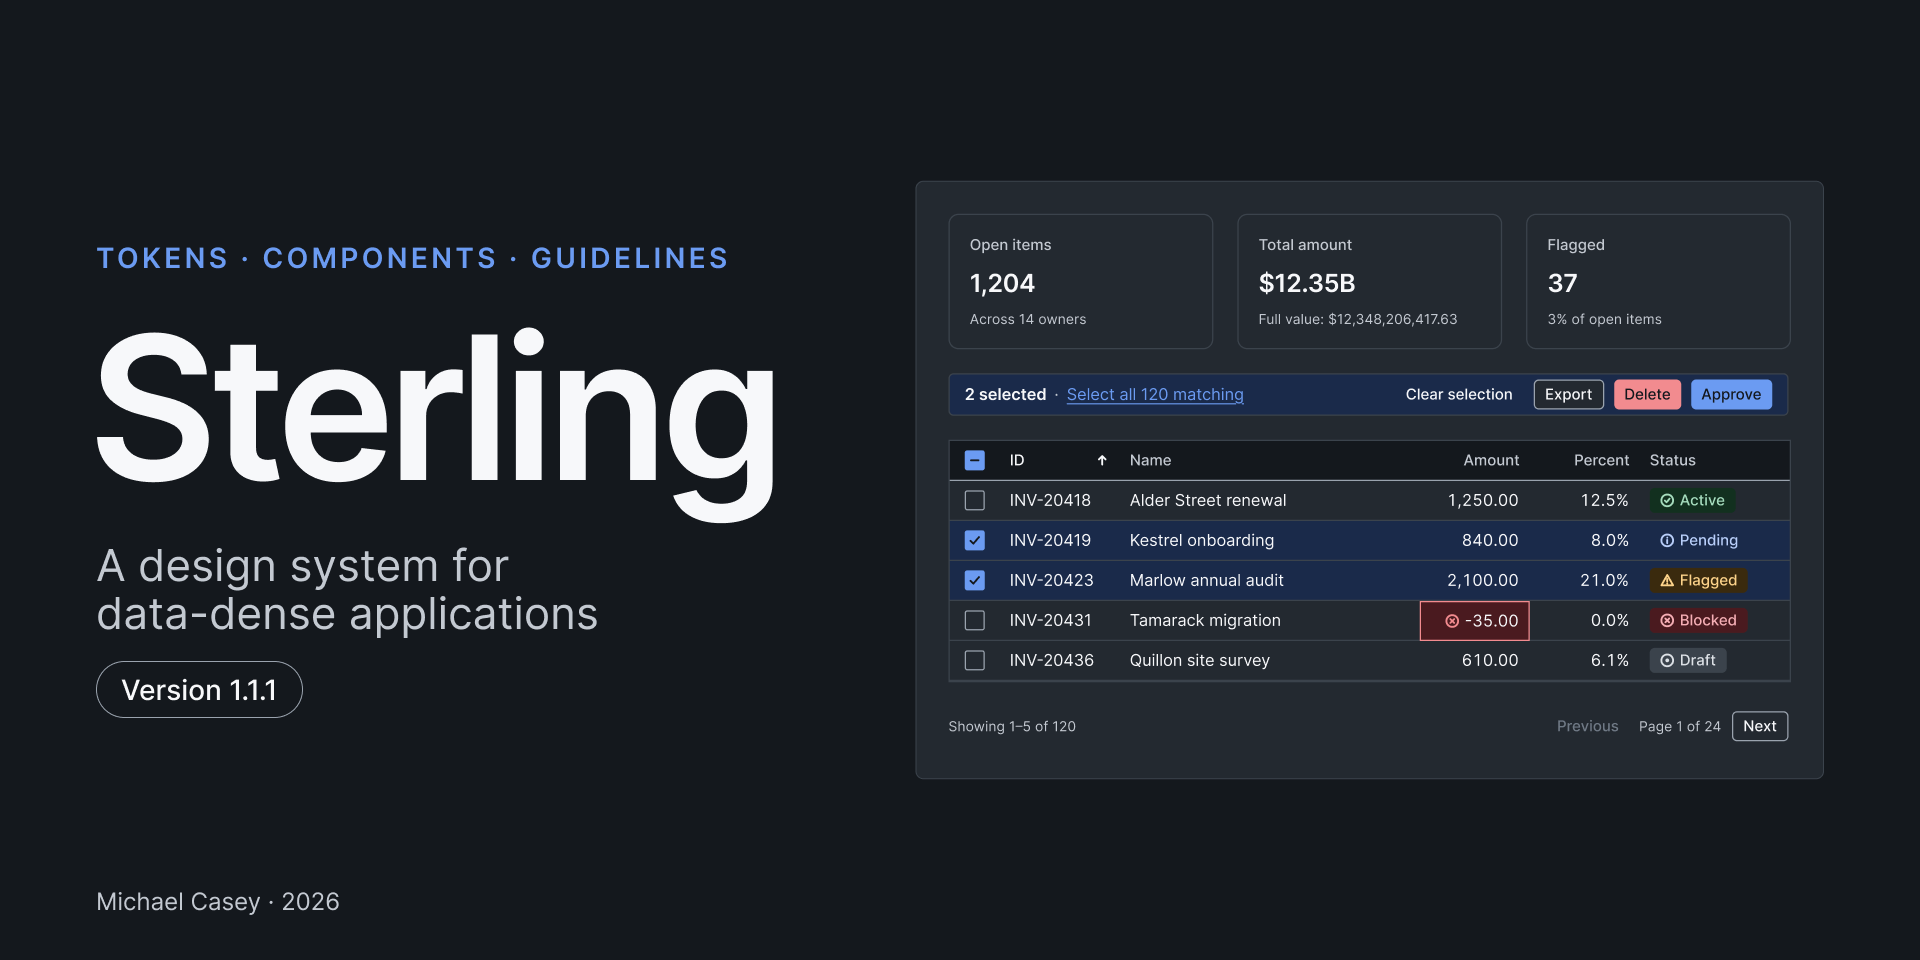
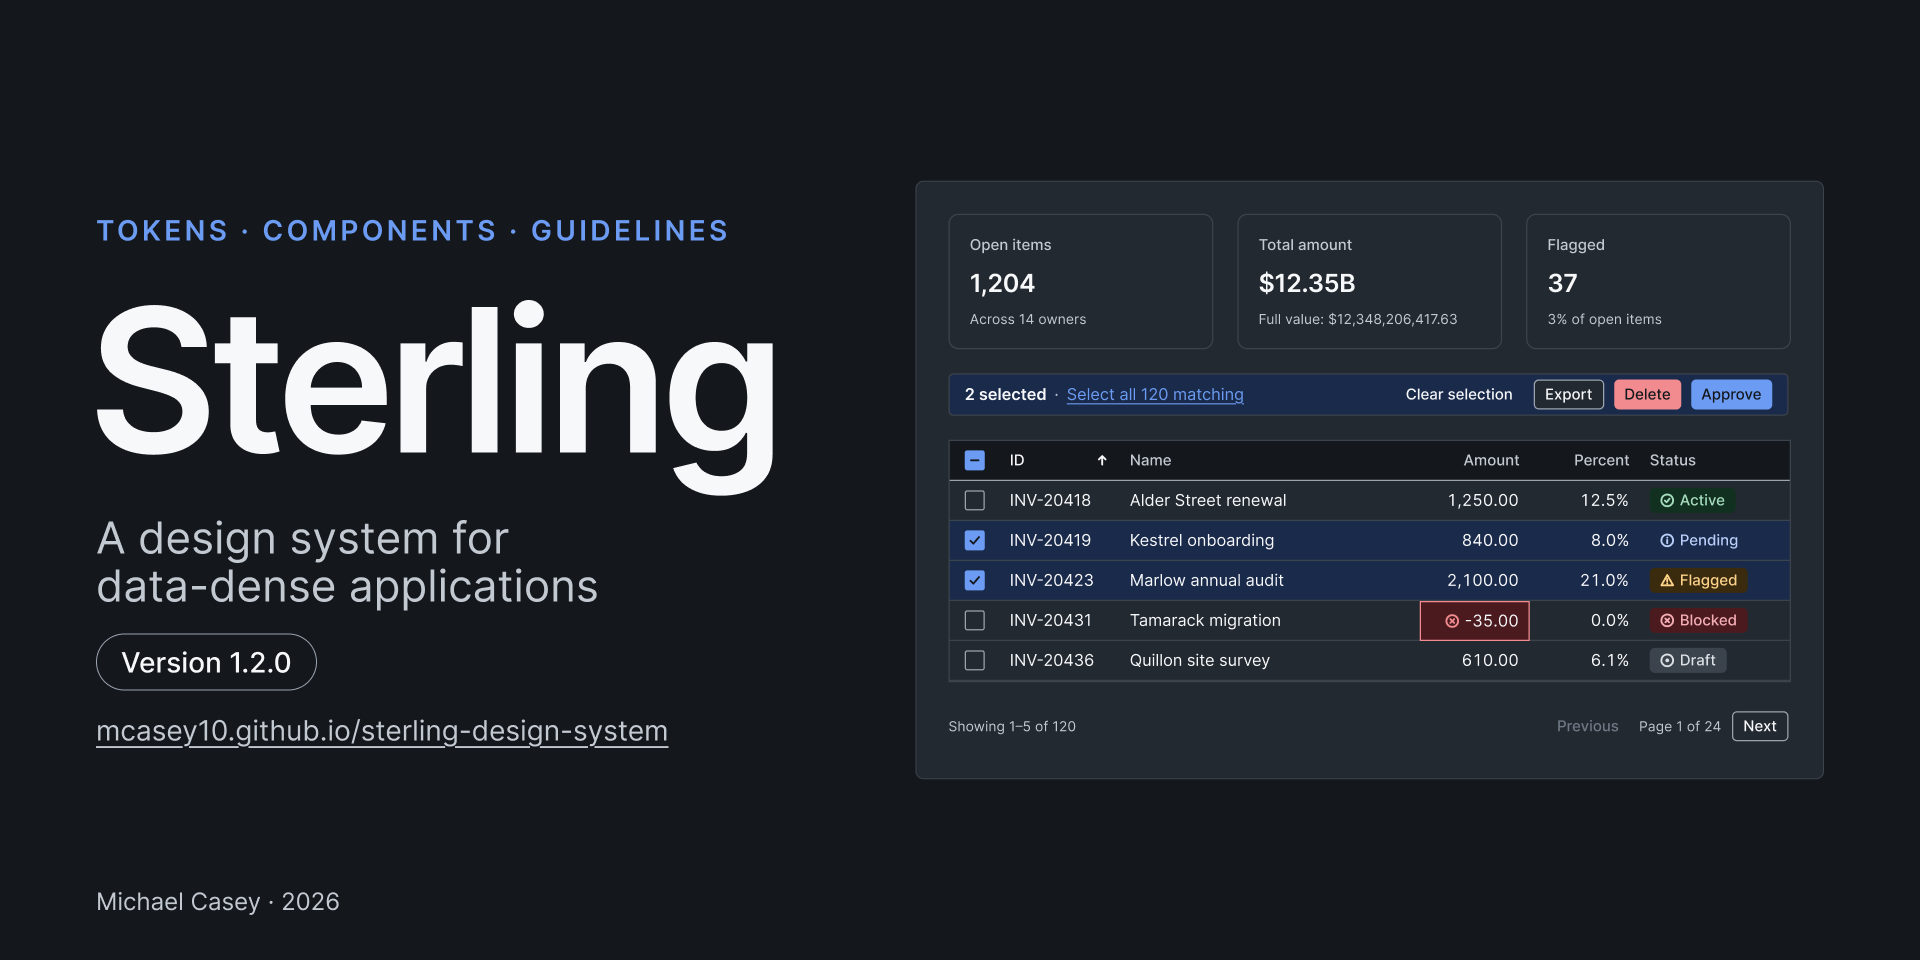
README cover image: version 1.2.0, with the website's address
Re-exported from the Cover frame after the 1.2.0 rebuild (Figma's screenshot, 1920 × 960, as before). The
README's description of the image names the address.

Changed region(s): [[0.0312, 0.3125, 0.4062, 0.5625], [0.0312, 0.5312, 0.3438, 0.7812], [0.0625, 0.2188, 0.375, 0.2812]]

diff --git a/README.md b/README.md
@@ -23,7 +23,7 @@ follow its links.
 **Set up:** [Install sterling-ui](https://mcasey10.github.io/sterling-design-system/install/) to add the components to a React project · [Set up the MCP server](https://mcasey10.github.io/sterling-design-system/ai-tools/#set-up) to connect Sterling to your AI tool.
 <!-- /generated: start-here -->
 
-![Sterling's cover: the name, tagline, and version beside a data grid, a bulk action bar, and summary metrics built from Sterling components](docs/images/cover.png)
+![Sterling's cover: the name, tagline, version, and website address beside a data grid, a bulk action bar, and summary metrics built from Sterling components](docs/images/cover.png)
 
 I built Sterling with [Claude Code](https://claude.com/claude-code), under my direction: I set the scope, made
 the design decisions, and reviewed each step in Figma and in the browser. Claude Code wrote the plugin, the
